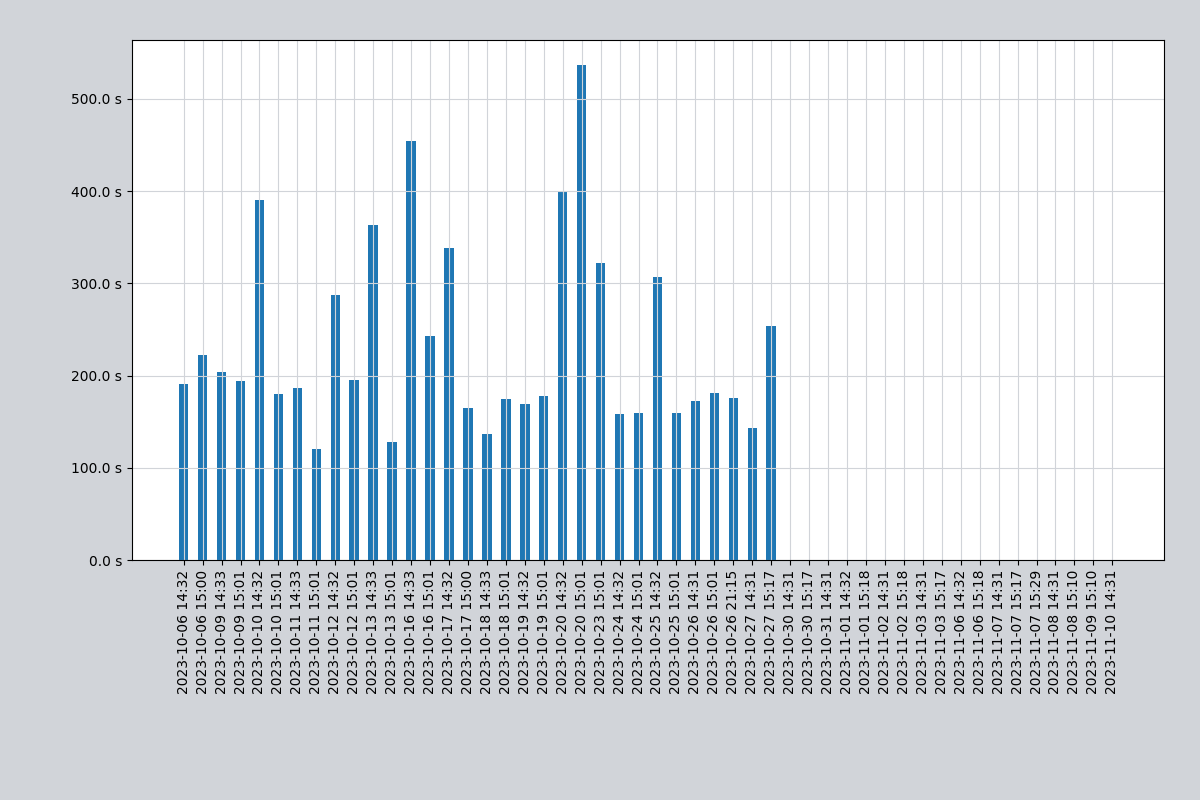
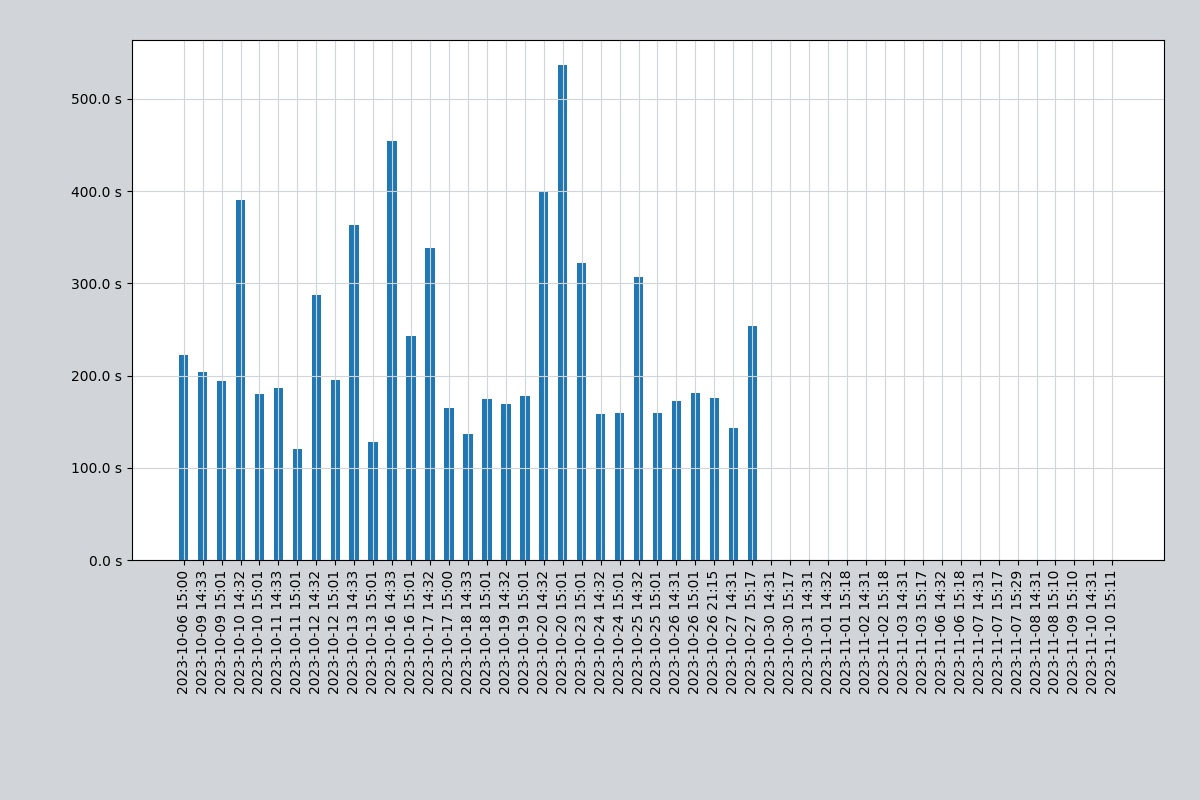
🎨Update statistics

Changed region(s): [[0.1233, 0.0625, 0.925, 0.7812], [0.1233, 0.1875, 0.4317, 0.5625], [0.6783, 0.7812, 0.7092, 0.8125]]

diff --git a/README.md b/README.md
@@ -8,7 +8,7 @@
 </div>
 
 <!-- github_hs_turnover starts -->
-## 2023-11-10 14:38:03 沪深成交额: 7469.38 亿
+## 2023-11-10 15:11:03 沪深成交额: 8274.46 亿
 <!-- github_hs_turnover ends -->
 
 <div align="center">  
